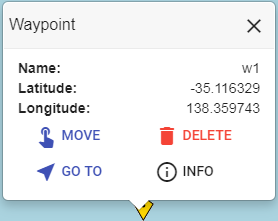
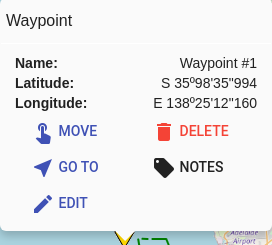
Update help

Changed region(s): [[0.0, 0.0, 1.0, 1.0], [0.0588, 0.2172, 0.3824, 0.8688], [0.8824, 0.0814, 0.9412, 0.1629]]

diff --git a/src/assets/help/index.html b/src/assets/help/index.html
@@ -451,11 +451,32 @@
                         <div style="padding-left:15px;">
                             <li><b>Filter Routes:</b> Type into the text box to filter the list of routes.</li>
                             <li><b>Display Route:</b> Check the checkbox to display the route on the map.</li>
-                            <li><b>Delete Route: </b> Click the trash can icon and you will be prompted to 
+
+                            <li><b>Delete Route: </b> Click <i class="material-icons">delete</i> and you will be prompted to 
                                 delete the route.<br>
-                                <i>Note: Deleting a route will also delete the associated Start and End Waypoints!</i>
+                            </li>                         
+                            <li>
+                                <b>Points: </b> Click <i class="material-icons">flag</i> to view a list of 
+                                route points where the following actions can be performed:<br>
                             </li>
-                            <li><b>Active: </b> Clicking <i class="material-icons">select_all</i> sends a message to the server to set 
+                            <div style="padding-left:20px;">
+                                <li> 
+                                    <b>Set the destination point:</b> If displayed route is the <i>Active Route</i>, click a 
+                                    point to set it as the current destination along the route.
+                                </li>
+                                <li>
+                                    <b>Re-order points:</b> Use the handle to drag points to a new position in the list.<br>
+                                    <i>Note: If points of the Active Route have been re-ordered then you will
+                                        not be able to set the destination point until changes have been applied.
+                                    </i>
+                                </li>
+                            </div>
+                            <li> 
+                                <b>Notes:</b> 
+                                Clicking <i class="material-icons">local_offer</i> displays a list of Notes associated with the route.
+                                From this screen you can add, edit or delete notes.
+                            </li>
+                            <li><b>Activate: </b> Clicking <i class="material-icons">near_me</i> sends a message to the server to set 
                                 this route as the <i>Active Route</i>.<br>
                                 The start of the route is set as the current destination. <br>
                                 Use the <i>Previous</i> and <i>Next</i> point options in the 
@@ -464,29 +485,23 @@
                             </li>
                             <li><b>Clear: </b> Clicking <i class="material-icons">clear_all</i> sends a message to the server to clear 
                                 the <i>Active Route</i>.
-                            </li>                            
-                            <li><b>Properties: </b> Click <i class="material-icons">info_outline</i> to edit route Name and Description.</li> 
-                            <li>
-                                <b>Points: </b> Click <i class="material-icons">flag</i> to view a list of 
-                                route points where the following actions can be performed:<br>
-                            </li> 
-                                <div style="padding-left:20px;">
-                                    <li> 
-                                        <b>Set the destination point:</b> If displayed route is the <i>Active Route</i>, click a 
-                                        point to set it as the current destination along the route.
-                                    </li>
-                                    <li>
-                                        <b>Re-order points:</b> Use the handle to drag points to a new position in the list.<br>
-                                        <i>Note: If points of the Active Route have been re-ordered then you will
-                                            not be able to set the destination point until changes have been applied.
-                                        </i>
-                                    </li>
-                                </div>
-                            
+                            </li>   
+                            <li><b>Edit Properties: </b> Click <i class="material-icons">edit</i> to edit route Name and Description.</li> 
+                            <br>
+                            You can also click on a Route on the map to display
+                            an information window with additional actions.<br>
+                            <img src="./img/route_popover.png"/>     
+                            <div style="padding-left:15px;">
+                                <li>
+                                    <b>Move:</b> 
+                                    Clicking <i class="material-icons">touch_app</i> allows route points to be re-positioned.
+                                </li>
+                            </div>                                        
                         </div>
                         <div>
-                            <b>Trail to Route</b><br>
                             <hr>
+                            <b>Trail to Route</b>
+                            <br>
                             You can create a route from the current Vessel trail by selecting the option from either 
                             the context menu or the <i class="material-icons">more_horiz</i> menu.<br>
                             <img src="./img/context_menu.png" style="max-width:190px;"/>
@@ -528,29 +543,40 @@
                         <div style="padding-left:15px;">
                             <li><b>Filter Waypoints:</b> Type into the text box to filter the list of waypoints.</li>
                             <li><b>Display Waypoint:</b> Check the checkbox to display the waypoint on the map.</li>
-                            <li><b>Delete Waypoint: </b> Click the trash can icon and you will be prompted to 
-                                delete the route.<br>
+
+                            <li><b>Delete Waypoint: </b> Click <i class="material-icons">delete</i> and you will be prompted to 
+                                delete the waypoint.<br>
                                 <i>Note: A waypoint may be associated with a route. 
                                     so take care when deleting waypoints!</i>
+                            </li>
+                            <li> 
+                                <b>Notes:</b> 
+                                Clicking <i class="material-icons">local_offer</i> displays a list of Notes associated with the waypoint.
+                                From this screen you can add, edit or delete notes.
                             </li>
                             <li><b>Go To: </b> Clicking <i class="material-icons">near_me</i> sends a message to the server to set 
                                 this waypoint as the target to navigate to. The server should then send 
                                 <a href="#navdata">navigation data</a> in relation to this location.
-                            </li>                           
-                            <li><b>Properties</b> Click <i class="material-icons">info_outline</i> to edit waypoint Name and Description.</li> 
+                            </li> 
+                            <li><b>Clear: </b> Clicking <i class="material-icons">clear_all</i> sends a message to the server to clear 
+                                the current destination.
+                            </li>  
+                            <li><b>Center: </b> Clicking <i class="material-icons">center_focus_strong</i> positions the map so the waypaoint 
+                                is displayed in the center.
+                            </li> 
+                            <li><b>Edit Properties</b> Click <i class="material-icons">edit</i> to edit waypoint Name and Description.</li> 
                         </div>
                     </div>  
                     <br>
-                    Additionally, you can click on both Routes and Waypoints to display
-                    an information window with available actions.<br>
-                    <div style="padding-left:15px;">
-                        <li>
-                            <b>Move:</b> 
-                            Clicking <i class="material-icons">touch_app</i> allows waypoints and route points to be re-positioned.
-                        </li>
-                    </div>                     
-                    <img src="./img/route_popover.png"/>&nbsp;&nbsp;
-                    <img src="./img/wpt_popover.png"/>    
+                            You can also click on a Waypoint on the map to display
+                            an information window with additional actions.<br>
+                            <img src="./img/wpt_popover.png"/>     
+                            <div style="padding-left:15px;">
+                                <li>
+                                    <b>Move:</b> 
+                                    Clicking <i class="material-icons">touch_app</i> allows waypoints to be re-positioned.
+                                </li>
+                            </div>     
                     <hr>
 
                     <li class="nobullet"><i class="material-icons">local_offer</i>
